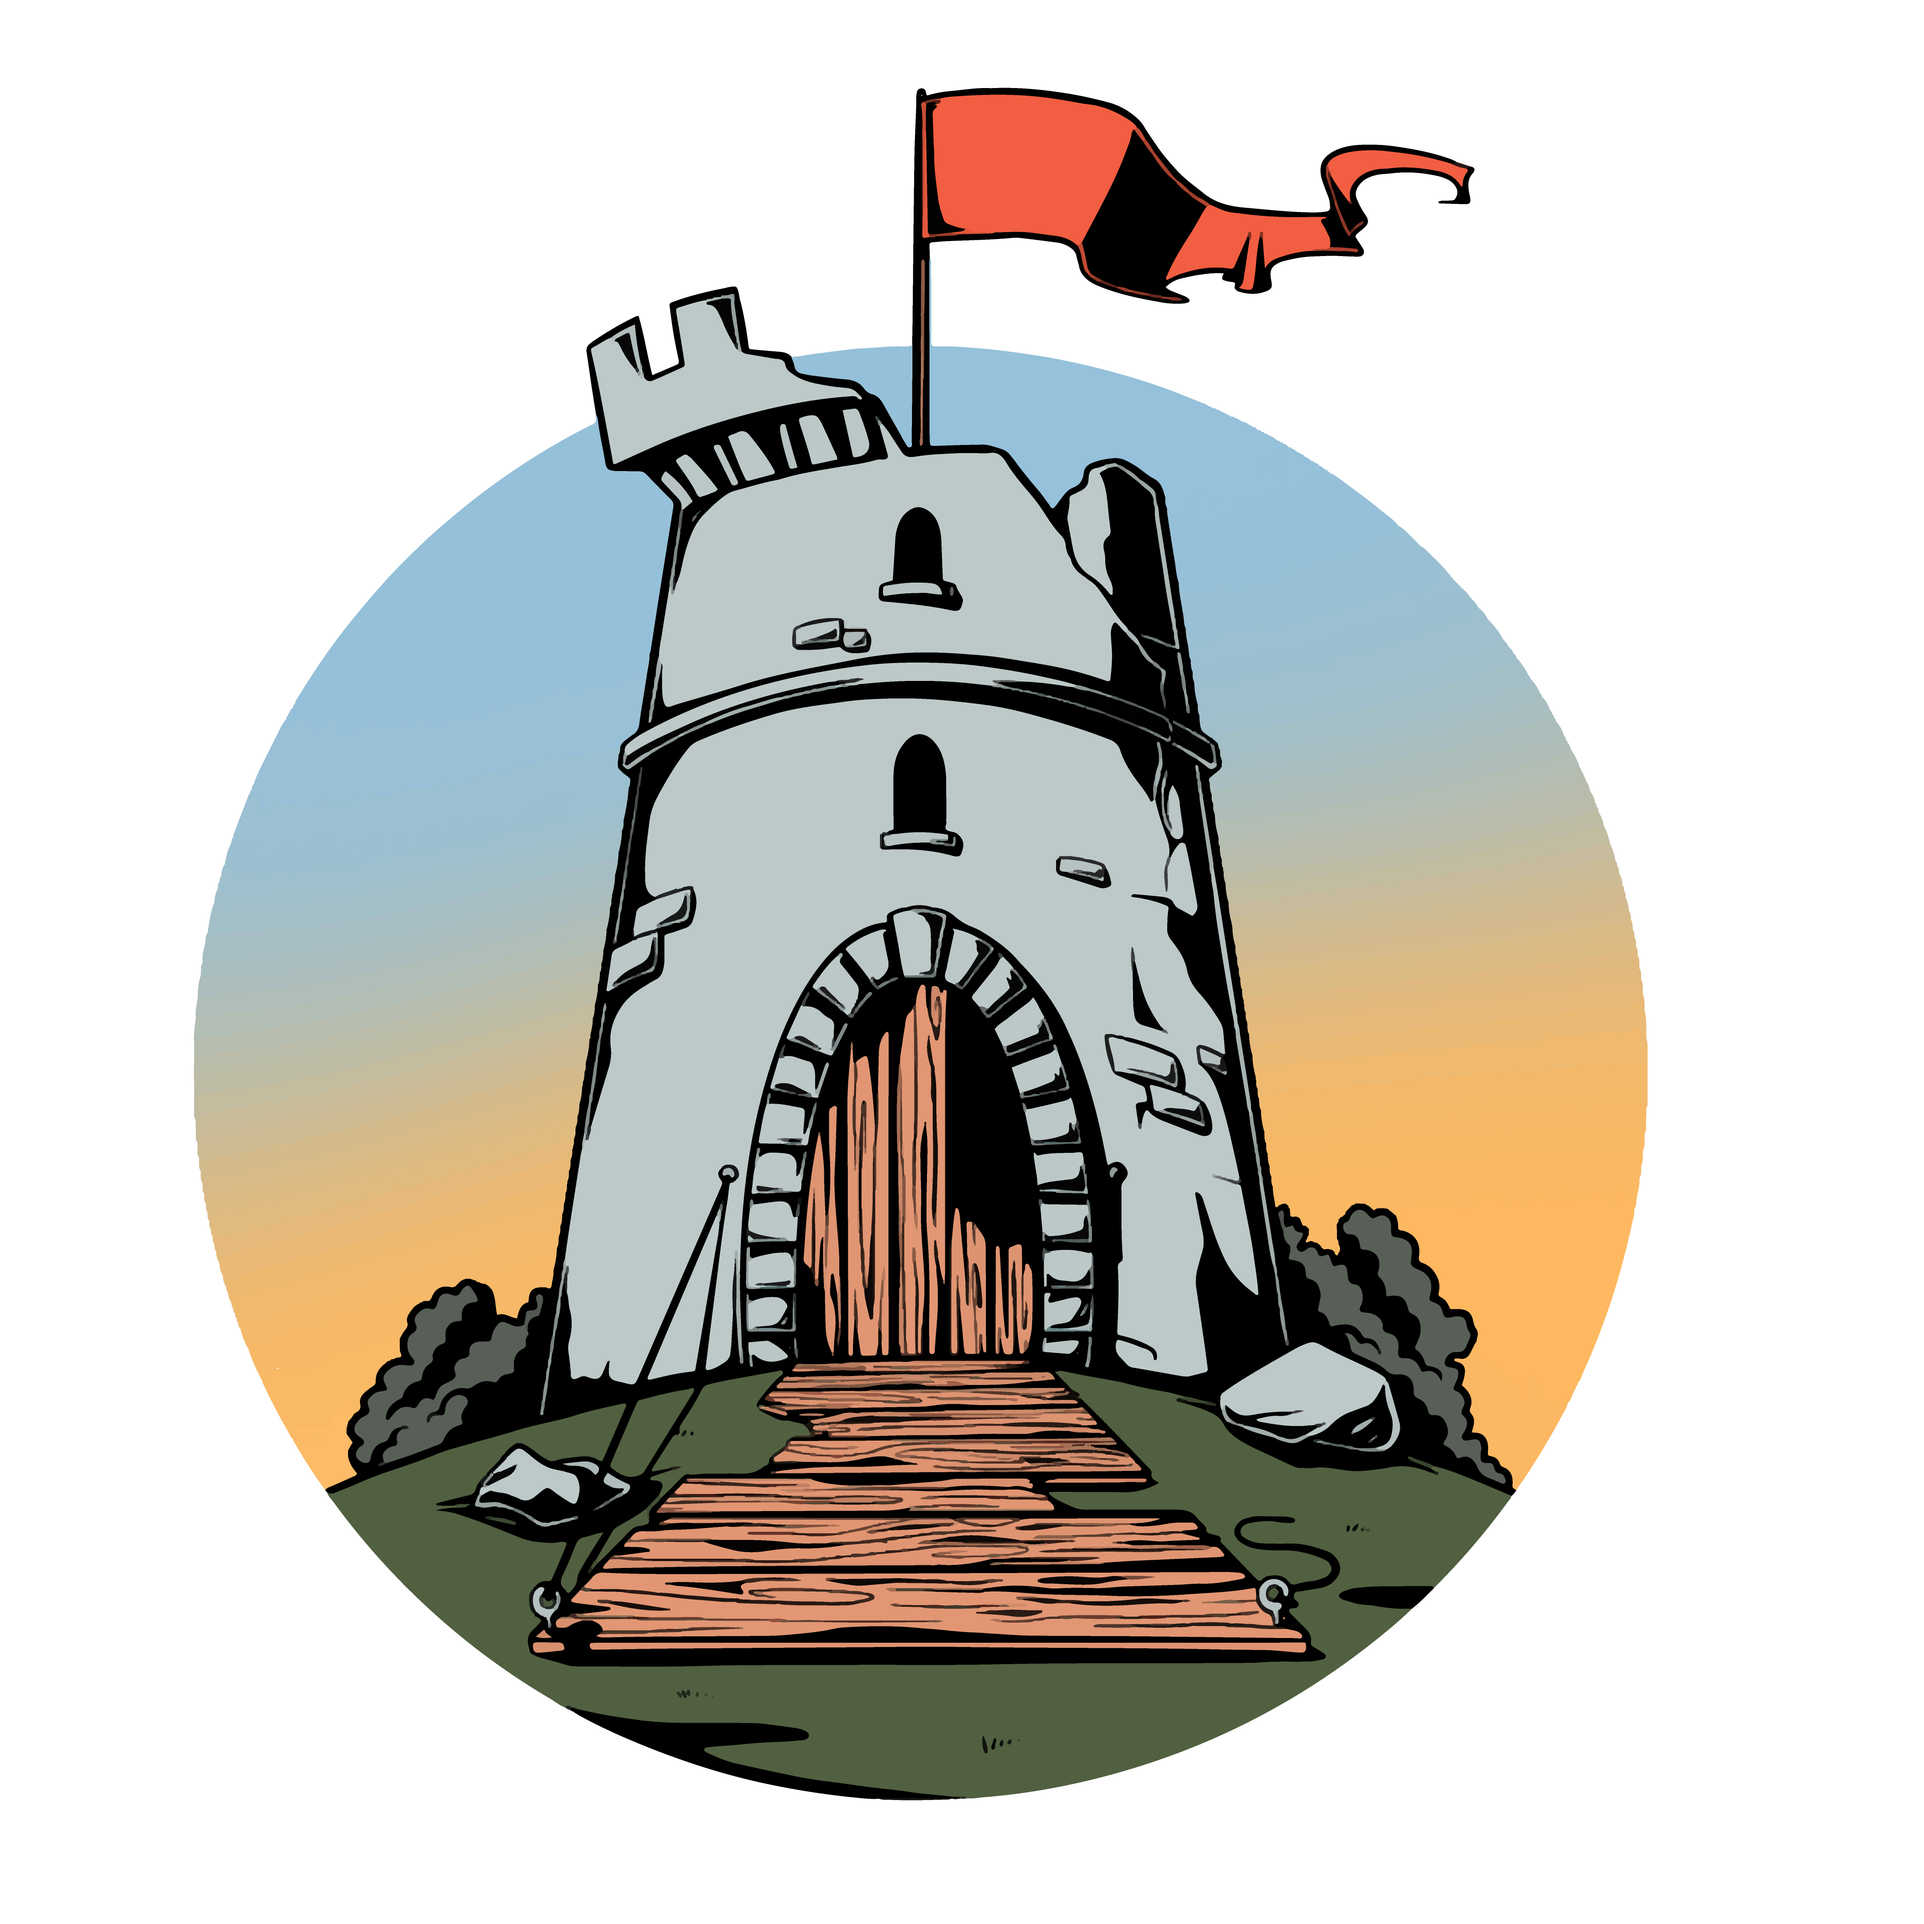
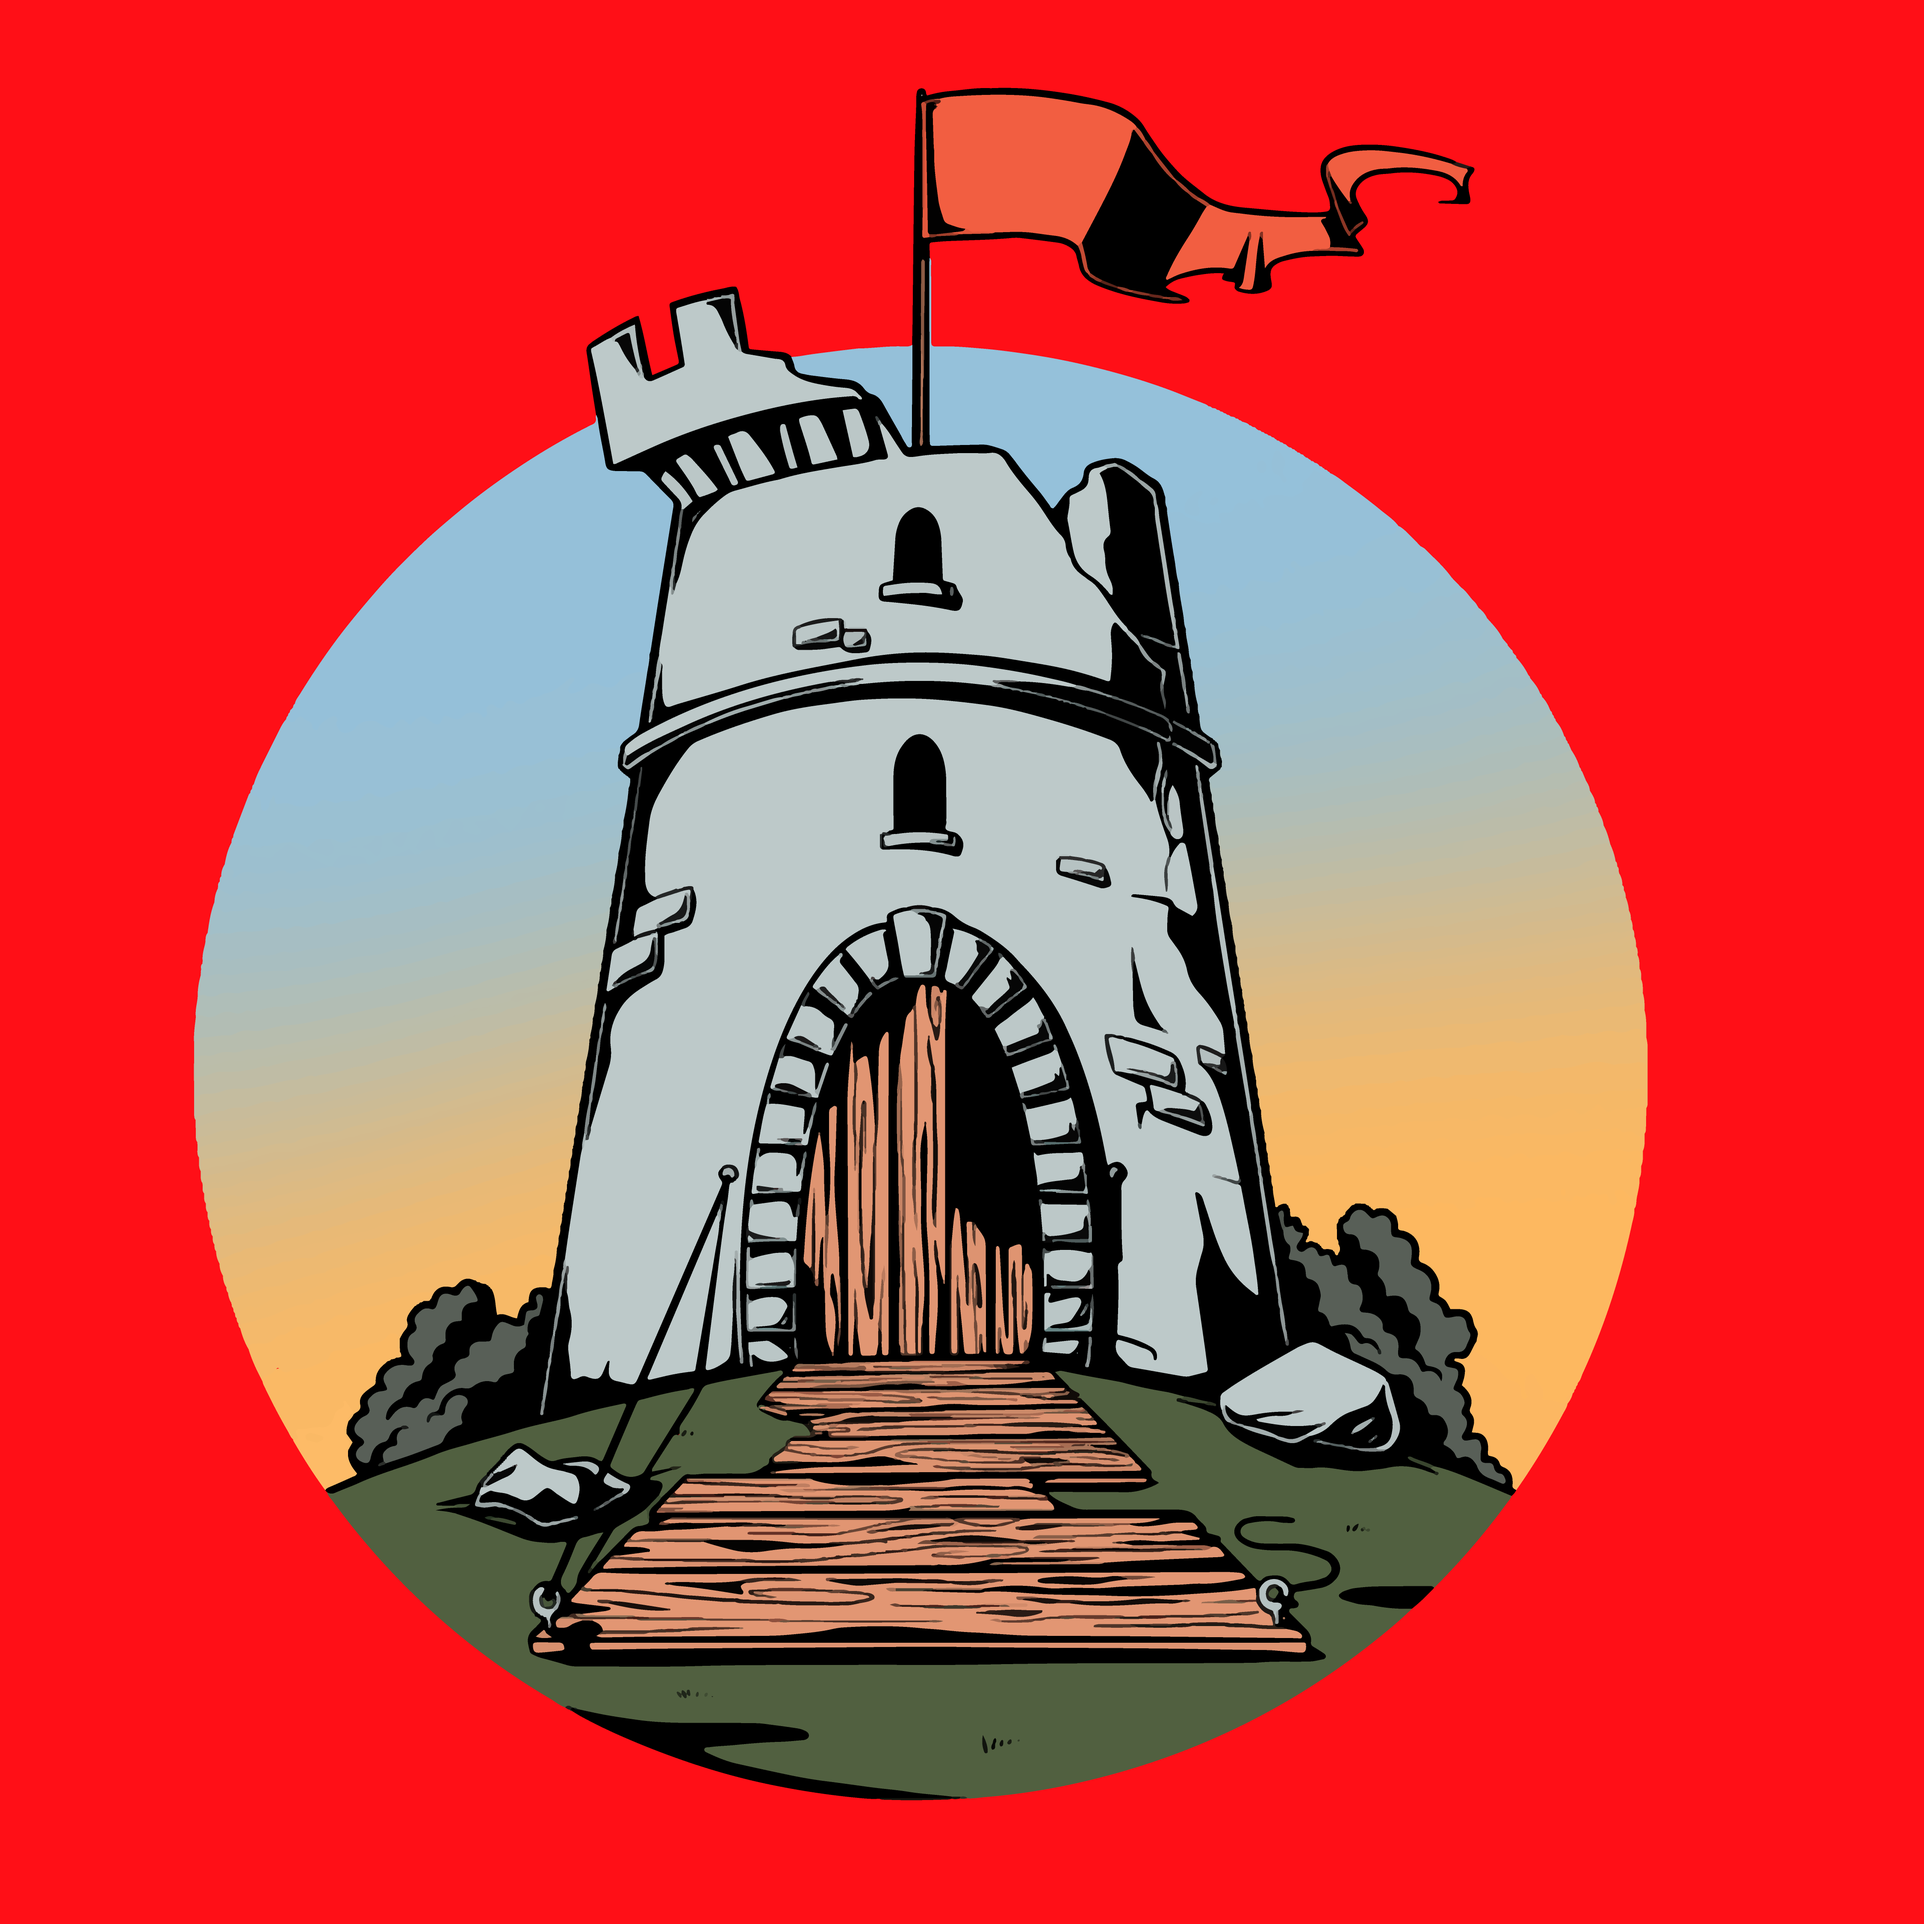
updated front page color

diff --git a/content/en/_index.html b/content/en/_index.html
@@ -4,7 +4,7 @@ linkTitle: "Crestfallen"
 
 ---
 
-{{< blocks/cover title="DANGER DEN" image_anchor="top" height="full" color="red" >}}
+{{< blocks/cover title="DANGER DEN" image_anchor="top" height="full"  >}}
 
 {{< /blocks/cover >}}
 
